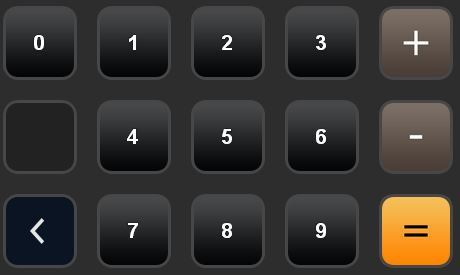
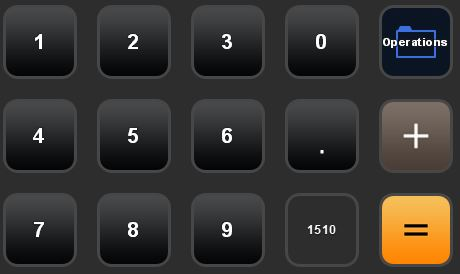
docs: update README

diff --git a/README.md b/README.md
@@ -4,9 +4,60 @@
 
 * Saves result in a text file, which can be imported into OBS
 * Configurable number buttons (e.g. 0-9 or multi digit numbers)
-* Operations
+* Operations (integer or floating point)
   * Addition
   * Subtraction
+* Display result on a Stream Deck button
+* Set result to custom value
+* Clear calculator input to start over
+* Stream Deck actions
+
+## Stream Deck buttons
+
+### Operations
+
+![Plus button](./streamdeck-calculator/Images/keyPlus.png)
+![Minus button](./streamdeck-calculator/Images/keyMinus.png)
+
+There are two operation buttons: Addition und Subtraction
+
+Each calculation starts with an operation and there can only be one operation in a calculation.
+
+### Number
+
+![Number button setting](./buttonsettings-number.jpg)
+
+The number button is used to input a number into the current calculation.
+
+### Operation: Calculate
+
+![Calculate button](./streamdeck-calculator/Images/keyEquals.png)
+
+Pressing the calculate button will perform the current calculation.
+After that, the input and set operation is cleared.
+
+### Decimal point
+
+![Decimal point button](./streamdeck-calculator/Images/keyPoint.png)
+
+Used for floating point calculations. Can be used once per calculation.
+
+### Set
+
+![Set button](./streamdeck-calculator/Images/keySet.png)
+
+The value of this button can be freely configured, similarly to number buttons.
+Pressing this button will set the current result to this value.
+
+### Reset
+
+![Reset button](./streamdeck-calculator/Images/keyReset.png)
+
+Pressing this button will reset the selected operation and clear the input.
+
+### Result
+
+This is a widget that will display the current result.
 
 ## Installation
 
@@ -20,6 +71,9 @@ Place as many "Number" buttons as you like and assign a title and a value.
 In the example above, I placed 10 for 0-9.
 
 Then also place the operations you need, and the equals (`[=]`) button.
+There's also a widget for displaying the current result.
+
+On smaller Stream Decks you may want to use folders to access less-needed functionalities.
 
 ## Usage
 
